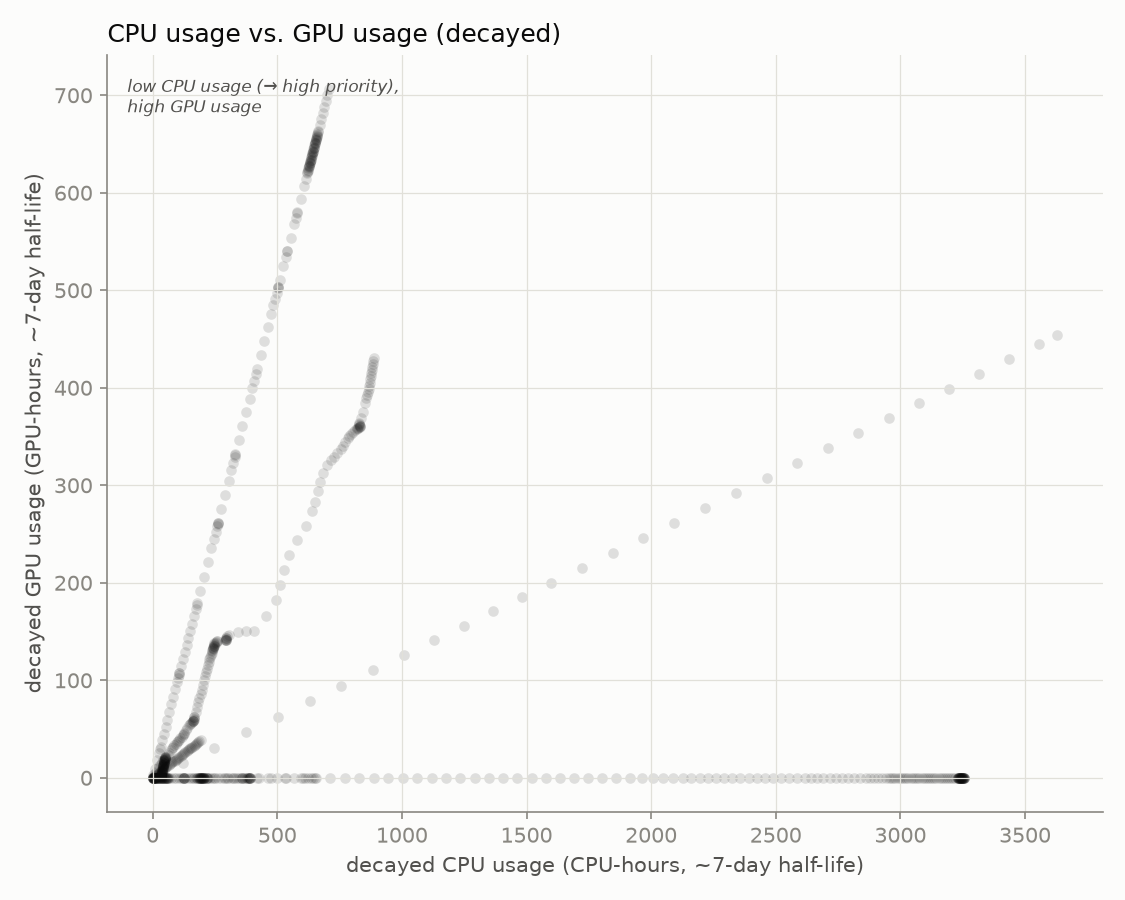
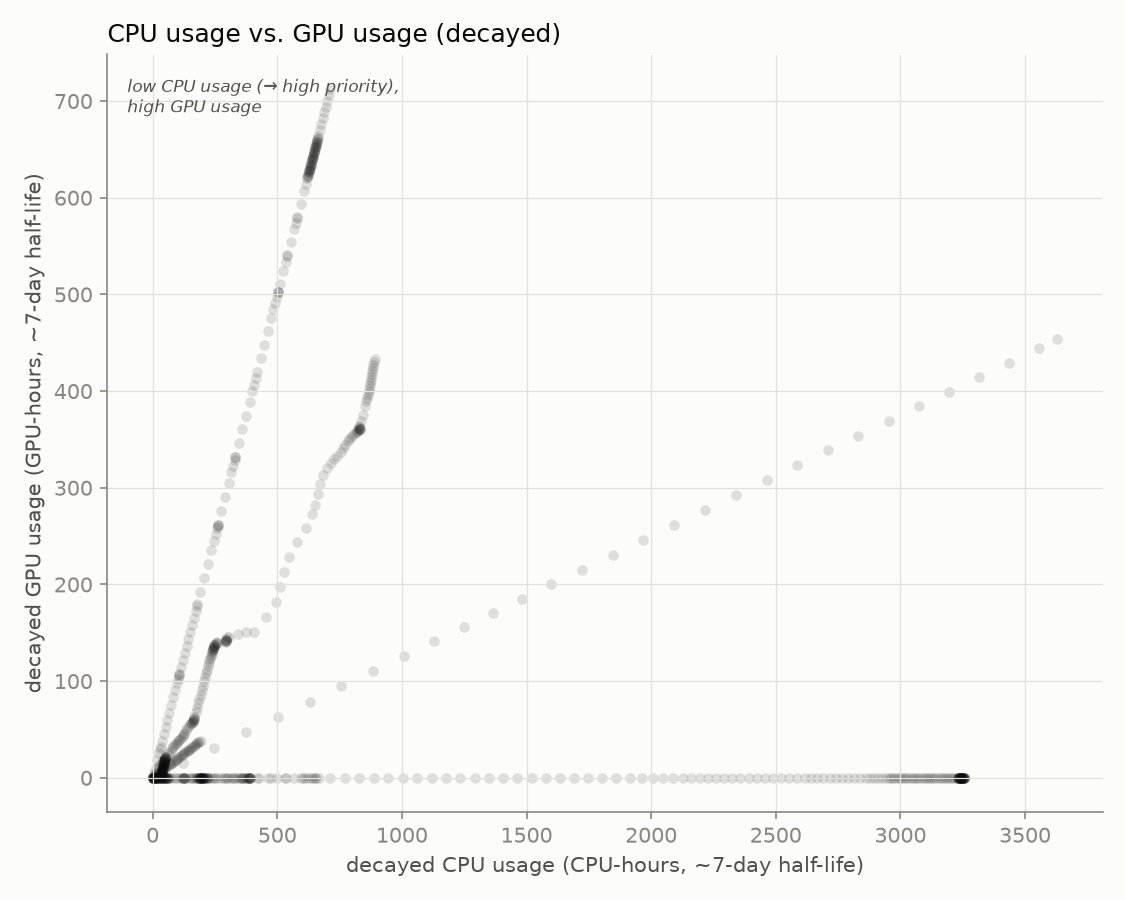
update 2026-08-08T10:00:01-07:00

diff --git a/README.md b/README.md
@@ -2,8 +2,8 @@
 
 Automated GPU/CPU/queue utilization tracker for `hopper.cluster`, updated every 30 minutes by cron. Usernames are anonymized to a stable per-account pseudonym; lab names are real.
 
-Last updated: 2026-08-08T09:30:13-07:00
-Samples: 135 queue snapshots, 135 GPU snapshots
+Last updated: 2026-08-08T10:00:13-07:00
+Samples: 136 queue snapshots, 136 GPU snapshots
 
 ## Resources
 
@@ -17,24 +17,24 @@ Samples: 135 queue snapshots, 135 GPU snapshots
 ## Headline
 
 - **45.3%** of the cluster's 60 GPUs allocated, averaged across all samples
-- **47.1%** average `nvidia-smi` utilization *when* a GPU is allocated to a job
+- **47.0%** average `nvidia-smi` utilization *when* a GPU is allocated to a job
 - **88.2%** average cgroup CPU utilization *when* a CPU is allocated to a job
 
 ## Per lab / per user
 
 <table>
 <tr><th>Lab</th><th>User</th><th align='right'>GPU-hours allocated</th><th align='right'>CPU-hours allocated</th><th align='right'>GPU utilization</th></tr>
-<tr style='background-color:#d8ecd8'><td>zhuang-lab</td><td>user-0db9ced0</td><td align='right'>826.5</td><td align='right'>826.5</td><td align='right'>45%</td></tr>
-<tr style='background-color:#d8efef'><td>witter-lab</td><td>user-554c620c</td><td align='right'>480.0</td><td align='right'>997.5</td><td align='right'>67%</td></tr>
+<tr style='background-color:#d8ecd8'><td>zhuang-lab</td><td>user-0db9ced0</td><td align='right'>834.0</td><td align='right'>834.0</td><td align='right'>45%</td></tr>
+<tr style='background-color:#d8efef'><td>witter-lab</td><td>user-554c620c</td><td align='right'>483.5</td><td align='right'>1005.0</td><td align='right'>68%</td></tr>
 <tr style='background-color:#d8efef'><td>witter-lab</td><td>user-d58f5a15</td><td align='right'>467.5</td><td align='right'>3740.0</td><td align='right'>9%</td></tr>
 <tr style='background-color:#fbebf1'><td>nerenberg-lab</td><td>user-6bb5f332</td><td align='right'>40.0</td><td align='right'>200.0</td><td align='right'>71%</td></tr>
 <tr style='background-color:#fbebf1'><td>nerenberg-lab</td><td>user-fedb5feb</td><td align='right'>22.5</td><td align='right'>54.0</td><td align='right'>67%</td></tr>
-<tr style='background-color:#fbebf1'><td>nerenberg-lab</td><td>user-b12dc074</td><td align='right'>0.0</td><td align='right'>16.0</td><td align='right'>—</td></tr>
+<tr style='background-color:#fce8e0'><td>gillen-lab</td><td>user-b89a87ef</td><td align='right'>0.0</td><td align='right'>684.0</td><td align='right'>—</td></tr>
 <tr style='background-color:#dfeaf8'><td>enkavi-lab</td><td>user-c21bdaa4</td><td align='right'>0.0</td><td align='right'>171.0</td><td align='right'>—</td></tr>
-<tr style='background-color:#fcf0d8'><td>ibarragarciapadilla-lab</td><td>user-3cfc41a3</td><td align='right'>0.0</td><td align='right'>3937.5</td><td align='right'>—</td></tr>
 <tr style='background-color:#fcf0d8'><td>ibarragarciapadilla-lab</td><td>user-eec7ffae</td><td align='right'>0.0</td><td align='right'>426.5</td><td align='right'>—</td></tr>
+<tr style='background-color:#fbebf1'><td>nerenberg-lab</td><td>user-b12dc074</td><td align='right'>0.0</td><td align='right'>16.0</td><td align='right'>—</td></tr>
+<tr style='background-color:#fcf0d8'><td>ibarragarciapadilla-lab</td><td>user-3cfc41a3</td><td align='right'>0.0</td><td align='right'>3945.0</td><td align='right'>—</td></tr>
 <tr style='background-color:#fcf0d8'><td>ibarragarciapadilla-lab</td><td>user-dad71a72</td><td align='right'>0.0</td><td align='right'>6.0</td><td align='right'>—</td></tr>
-<tr style='background-color:#fce8e0'><td>gillen-lab</td><td>user-b89a87ef</td><td align='right'>0.0</td><td align='right'>672.0</td><td align='right'>—</td></tr>
 </table>
 
 ## Usage over time
@@ -45,7 +45,7 @@ Samples: 135 queue snapshots, 135 GPU snapshots
 
 Solid = utilized by lab, hatched = allocated but idle, gray = usage not traceable to a lab, dashed line = cluster capacity.
 
-Attribution combines `nvidia-smi`'s process listing with Slurm's GPU-to-job binding record; the latter caught **2646** readings the former missed.
+Attribution combines `nvidia-smi`'s process listing with Slurm's GPU-to-job binding record; the latter caught **2657** readings the former missed.
 
 ## Queue
 
@@ -57,13 +57,13 @@ Attribution combines `nvidia-smi`'s process listing with Slurm's GPU-to-job bind
 
 ![CPU usage vs GPU usage, decayed](assets/cpu_gpu_usage.png)
 
-One point per user per snapshot (n=650), usage decayed on Slurm's ~7-day fairshare half-life.
+One point per user per snapshot (n=654), usage decayed on Slurm's ~7-day fairshare half-life.
 
 **GPU usage doesn't count toward priority on this cluster** (`TRESBillingWeights`/`PriorityWeightTRES` unset) - watch the **upper-left**: low CPU usage (high priority) with high GPU usage.
 
 ## Recommendations
 
-1. **Weight GPU usage in fairshare.** `TRESBillingWeights` and `PriorityWeightTRES` are both unset right now, so Slurm's fairshare score only sees CPU-seconds - a job holding 4 idle L40S GPUs costs nothing in priority as long as it isn't also holding CPUs. That's the exact failure mode the scatter above is built to catch (upper-left: low CPU usage, high GPU usage). Fix: `scontrol update partition=main TRESBillingWeights=CPU=1.0,GRES/gpu=<weight>` (or set `PriorityWeightTRES` cluster-wide), then `scontrol reconfigure` - a full `slurmctld` restart also works but drops in-flight priority state. A reasonable starting point for `<weight>` is the CPUs-per-GPU ratio on a GPU node (128 CPUs / 4 GPUs = 32), so one GPU costs as much fairshare as the CPU share it displaces; tune from there against next week's headline numbers (45.3% allocated, 47.1% utilized when allocated, as of this snapshot). The weight value itself is a policy call - loop in whoever owns cluster allocation policy before changing it.
+1. **Weight GPU usage in fairshare.** `TRESBillingWeights` and `PriorityWeightTRES` are both unset right now, so Slurm's fairshare score only sees CPU-seconds - a job holding 4 idle L40S GPUs costs nothing in priority as long as it isn't also holding CPUs. That's the exact failure mode the scatter above is built to catch (upper-left: low CPU usage, high GPU usage). Fix: `scontrol update partition=main TRESBillingWeights=CPU=1.0,GRES/gpu=<weight>` (or set `PriorityWeightTRES` cluster-wide), then `scontrol reconfigure` - a full `slurmctld` restart also works but drops in-flight priority state. A reasonable starting point for `<weight>` is the CPUs-per-GPU ratio on a GPU node (128 CPUs / 4 GPUs = 32), so one GPU costs as much fairshare as the CPU share it displaces; tune from there against next week's headline numbers (45.3% allocated, 47.0% utilized when allocated, as of this snapshot). The weight value itself is a policy call - loop in whoever owns cluster allocation policy before changing it.
 
 2. **Escalate on sustained low utilization** (see table and scatter above). Right now the clearest candidate is `user-d58f5a15` in `witter-lab`: 467.5 GPU-hours allocated at 9% average utilization, i.e. roughly 424 GPU-hours that sat idle instead of going to someone in the queue. Turning that into an automated escalation needs two decisions made up front: a utilization threshold (something like under 20% mean utilization over at least 50 allocated GPU-hours is a defensible starting bar - loose enough to skip short debugging runs, tight enough to catch parked allocations) and a grace period (how many consecutive low-utilization snapshots before it counts as "sustained" rather than a momentary lull between batches). Once those are set, the mechanism can be either soft (a bot that reads `data/gpu_samples.jsonl` and reminds the user/lab by email or Slack) or hard (a Slurm-side QOS penalty, e.g. `sacctmgr modify qos <qos> set Priority-=<n>`, applied after N consecutive offending snapshots). Neither exists yet - today the table and scatter above are a read-only signal, not an enforced policy.
 
